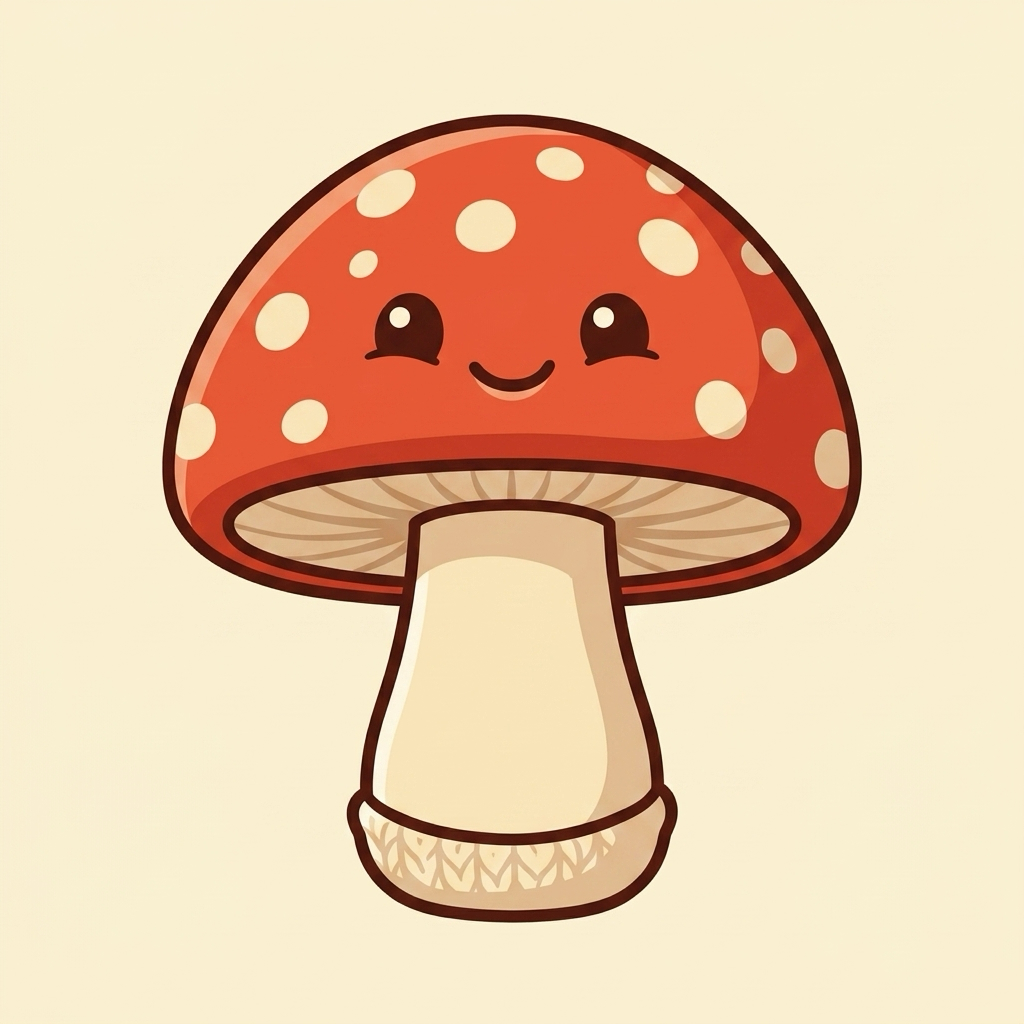
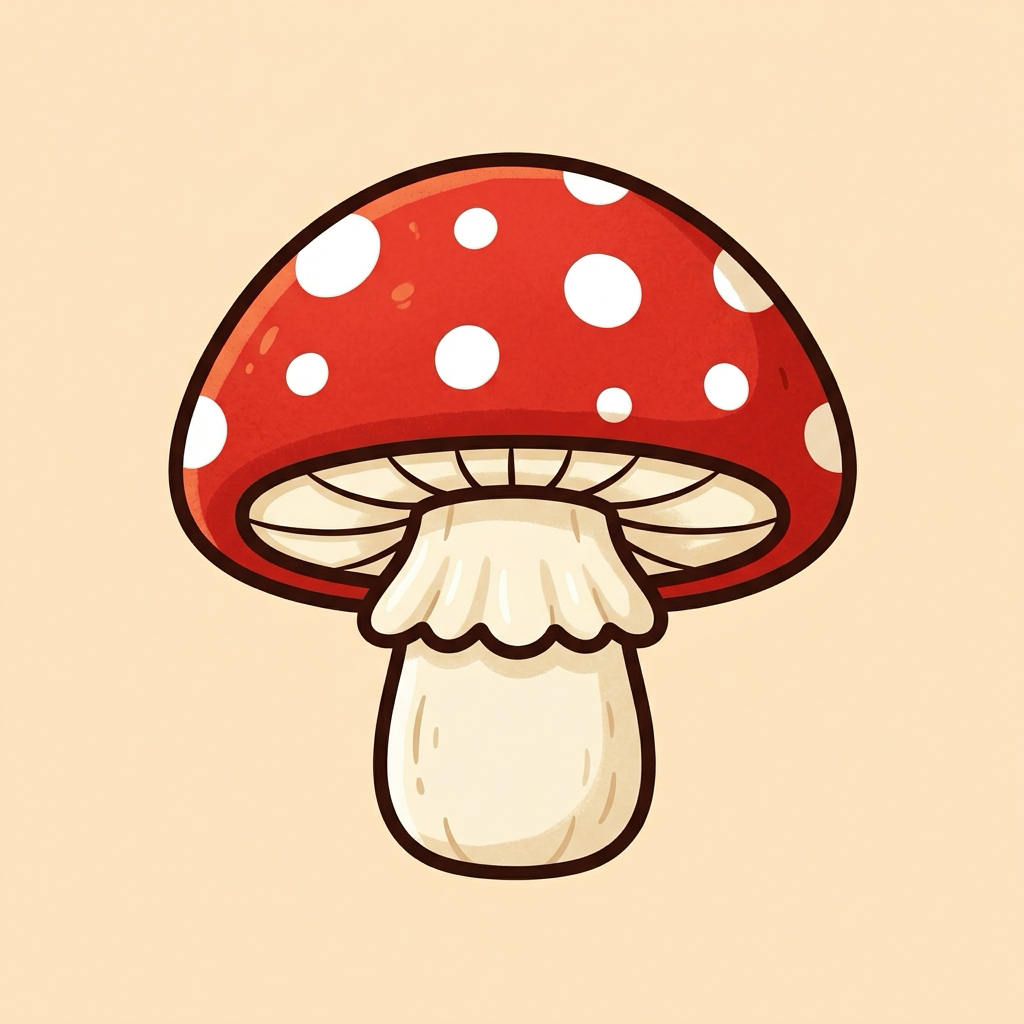
feat(art): фон-карта леса, гриб без лица, иллюстрации слайдов правил
- board-bg: полноценная карта леса (деревья, кусты, тропинки, полянки)
  на всю доску, игровая тропа лиса читается поверх
- clue-mushroom: перегенерирован без лица
- rules-1..6: сцены правил с нашими детективами, подключены в карусель
- feature-graphic 1024x500 сохранён в resources/ для Play Console

diff --git a/js/game.js b/js/game.js
@@ -732,14 +732,11 @@ function switchLang(lang) {
 }
 
 // --- Правила (карусель) ---
-const RULE_SLIDES = [
-    { img: () => foxThiefImg(110), tKey: 'rule1_t', key: 'rule1' },
-    { img: () => diceIconImg(110), tKey: 'rule2_t', key: 'rule2' },
-    { img: () => mushroomImg(110), tKey: 'rule3_t', key: 'rule3' },
-    { img: () => magnifierImg(110), tKey: 'rule4_t', key: 'rule4' },
-    { img: () => `<img class="rules-suspect" src="${ASSET_DIR}${SUSPECT_IMGS[0]}" alt="">`, tKey: 'rule5_t', key: 'rule5' },
-    { img: () => pieImg(110), tKey: 'rule6_t', key: 'rule6' },
-];
+const RULE_SLIDES = [1, 2, 3, 4, 5, 6].map(n => ({
+    img: () => `<img src="${ASSET_DIR}rules-${n}.webp" alt="">`,
+    tKey: `rule${n}_t`,
+    key: `rule${n}`,
+}));
 let ruleIdx = 0;
 
 function openRules() {
@@ -788,7 +785,7 @@ function preloadAssets(onDone) {
      'icon-dice', 'icon-magnifier', 'clue-mushroom',
      'decor-bush', 'decor-flower-pink', 'decor-flower-white', 'decor-grass', 'decor-stone']
         .forEach(n => files.push(ASSET_DIR + n + '.webp'));
-    ['tex-grass', 'tex-path', 'tex-page-bg', 'tile-mystery'].forEach(n => files.push(ASSET_RAW + n + '.webp'));
+    ['tex-grass', 'tex-path', 'tex-page-bg', 'tile-mystery', 'board-bg'].forEach(n => files.push(ASSET_RAW + n + '.webp'));
 
     let loaded = 0;
     const bar = $('loading-bar-fill');

diff --git a/css/styles.css b/css/styles.css
@@ -825,7 +825,7 @@ img { -webkit-user-drag: none; }
 /* Правила */
 #rules-slide { min-height: 240px; }
 .rules-art { display: flex; justify-content: center; margin: 8px 0; }
-.rules-art img { max-height: 120px; width: auto; }
+.rules-art img { max-height: 150px; width: auto; }
 .rules-slide-title { font-size: 1.25rem; font-weight: 800; margin-bottom: 6px; }
 .rules-text { font-weight: 600; color: var(--ink-soft); line-height: 1.45; margin: 0; }
 #rules-dots { display: flex; justify-content: center; gap: 6px; margin-top: 14px; }
